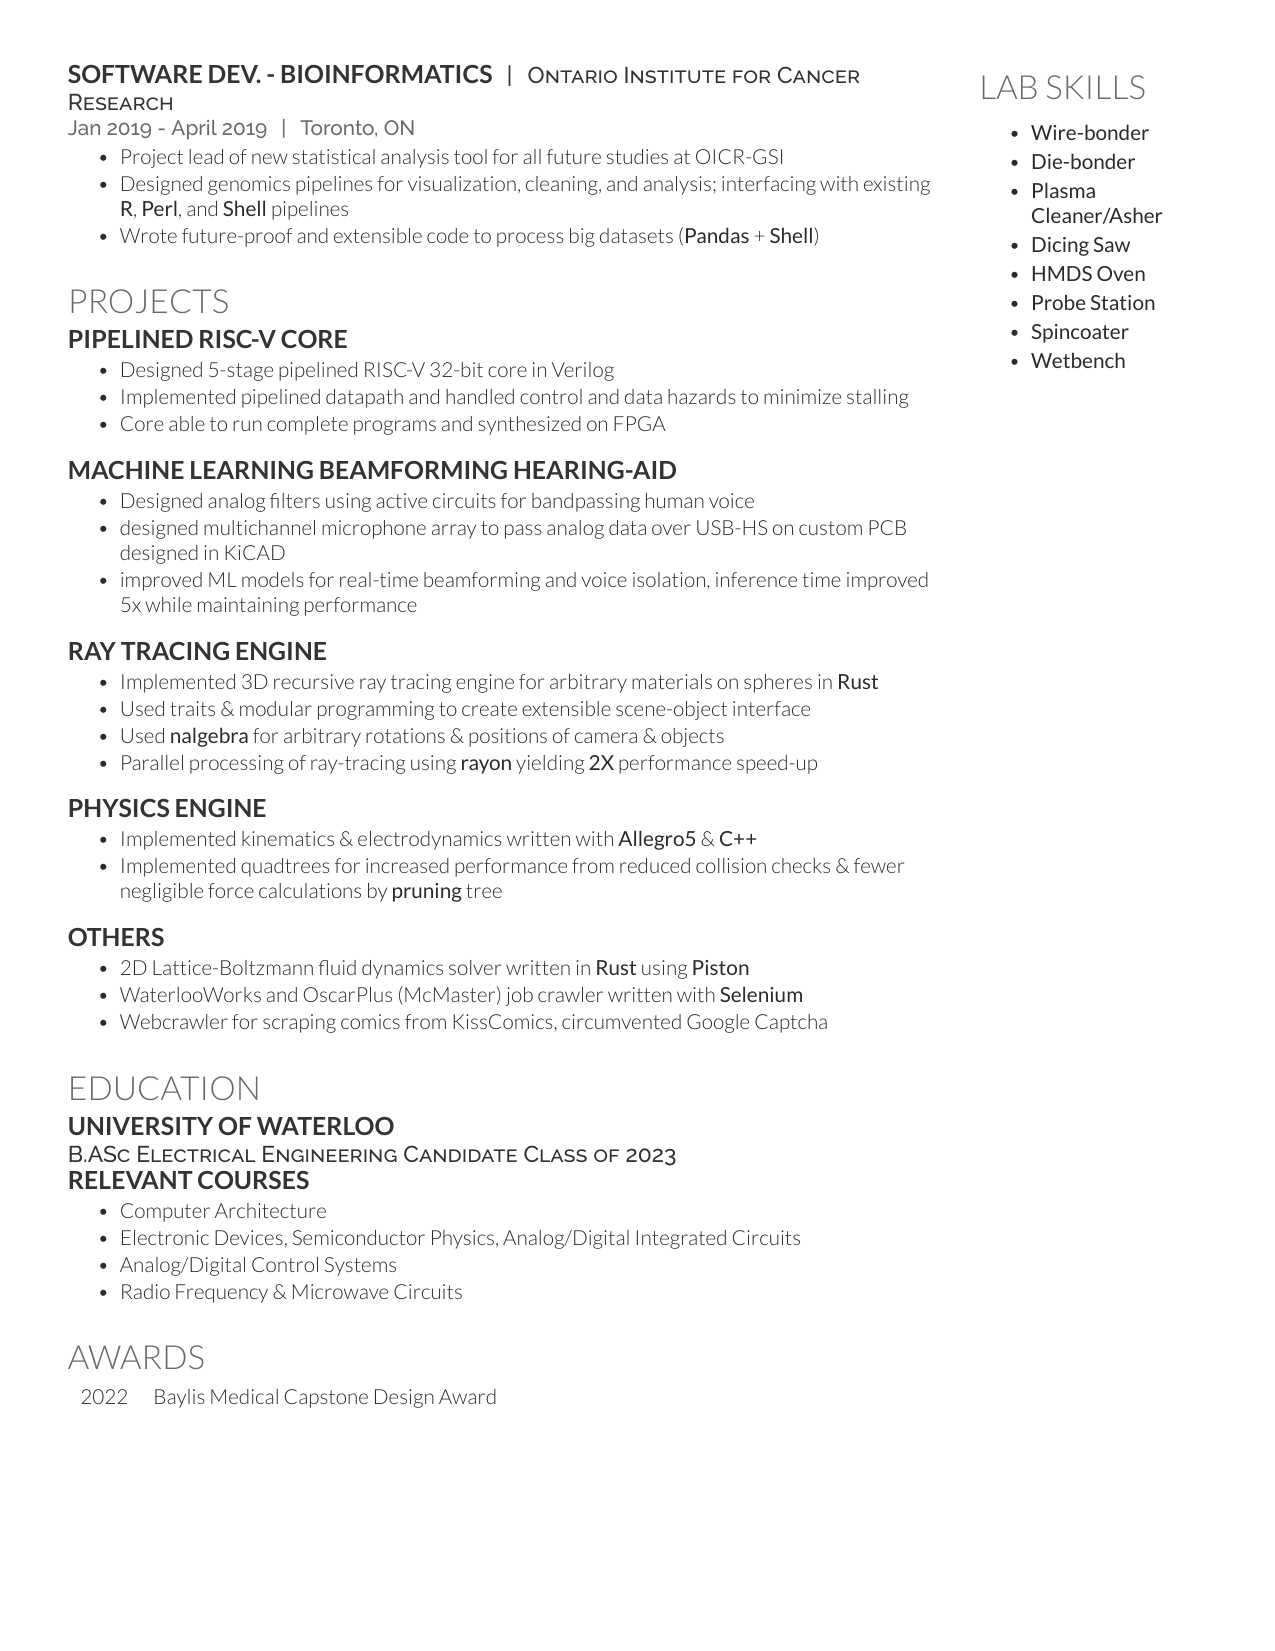
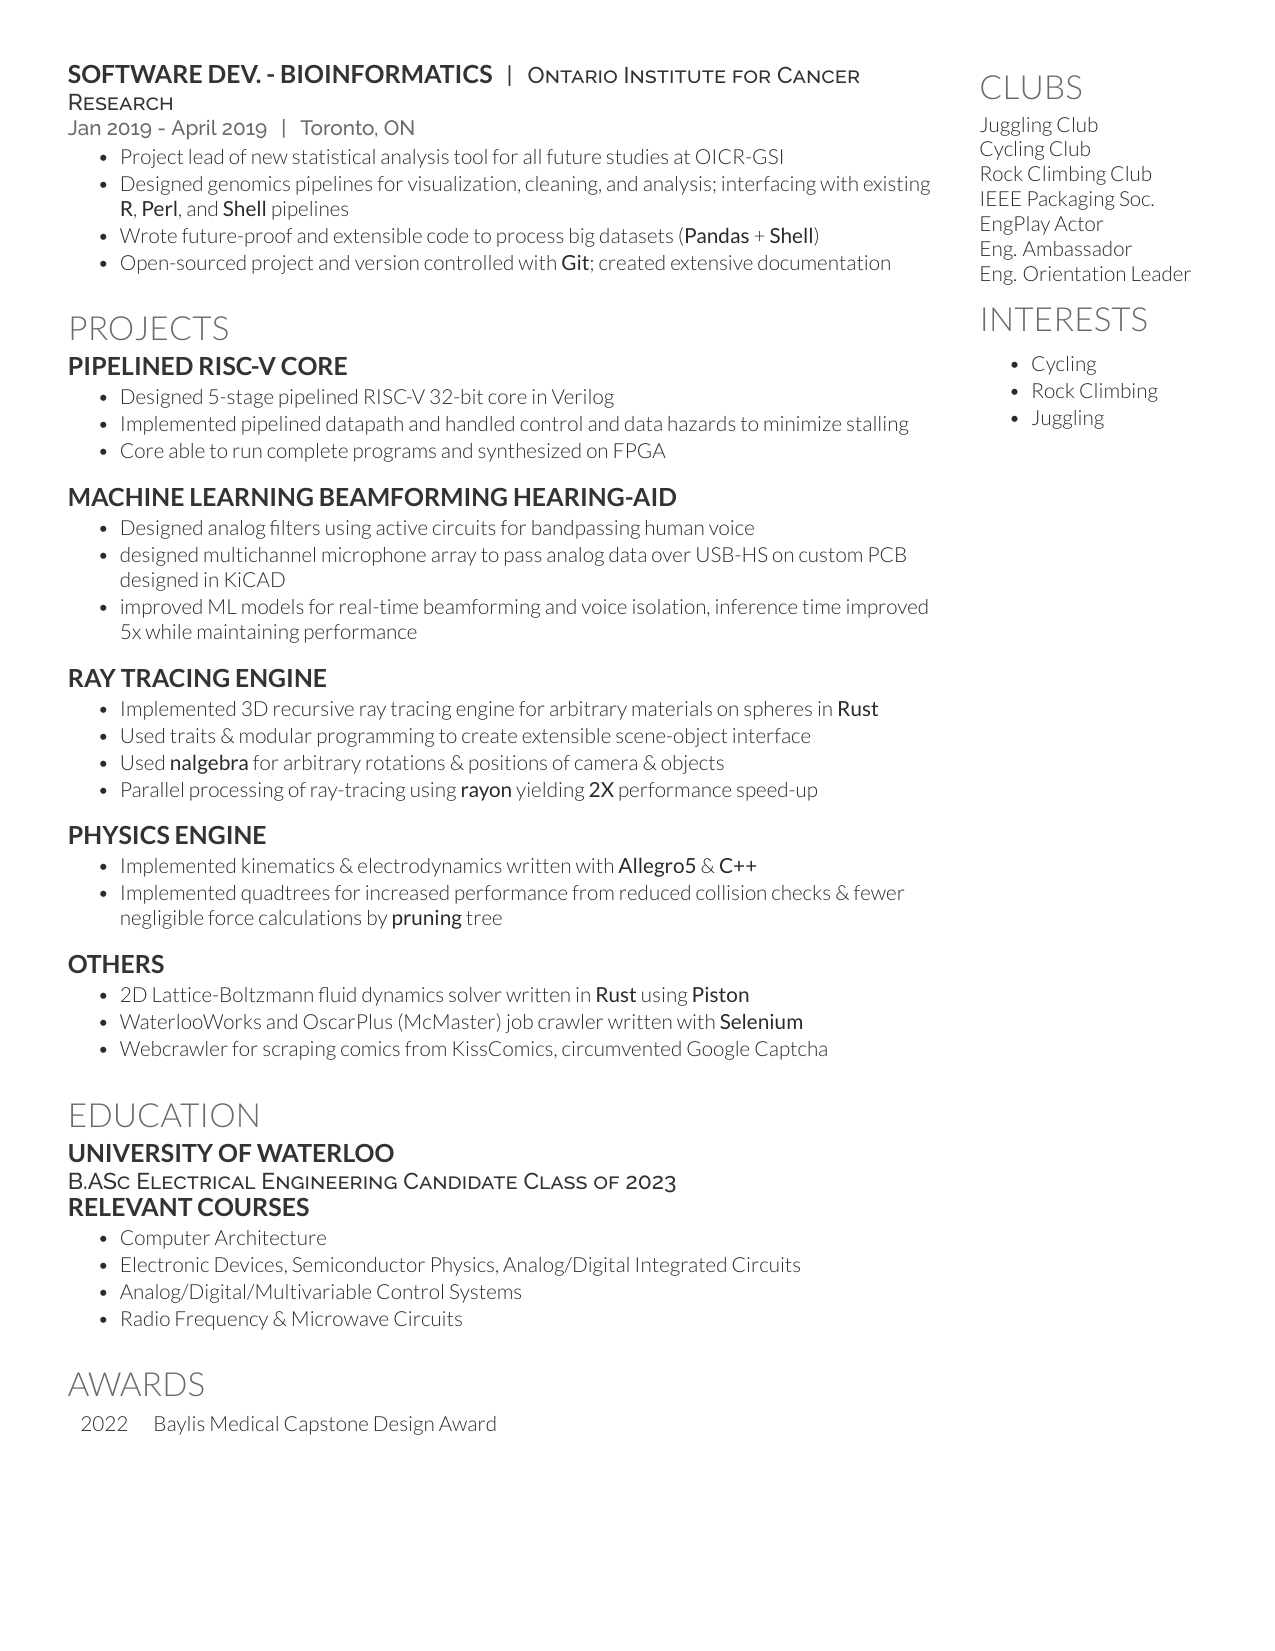
Reorganize format

Changed region(s): [[0.0306, 0.1545, 0.7341, 0.8649], [0.7647, 0.0309, 0.9176, 0.278], [0.4282, 0.1545, 0.4588, 0.1853]]

diff --git a/Resume/Resume-Clean/chandan.tex b/Resume/Resume-Clean/chandan.tex
@@ -21,7 +21,7 @@
 %     LAST UPDATED DATE
 %
 %%%%%%%%%%%%%%%%%%%%%%%%%%%%%%%%%%%%%%
-%\lastupdated
+% \lastupdated
 
 %%%%%%%%%%%%%%%%%%%%%%%%%%%%%%%%%%%%%%
 %
@@ -31,7 +31,7 @@
 \namesection{Kunal}{Chandan}
 {
 	\urlstyle{same}
-	\textit{Honours Electrical Engineering Candidate} \\
+	\textit{B.A.Sc Honours Electrical Engineering Candidate} \\
 	\href{mailto:kchandan@uwaterloo.ca}{kchandan@uwaterloo.ca} \quad
 	| \quad
 	\href{https://www.linkedin.com/in/kunal-chandan/}{linkedin/kunal-chandan} \quad
@@ -101,27 +101,22 @@
 	\end{itemize}
 
 %%%%%%%%%%%%%%%%%%%%%%%%%%%%%%%%%%%%%%
-%     Interests
+%     Lab Skills
 %%%%%%%%%%%%%%%%%%%%%%%%%%%%%%%%%%%%%%
-\section{Interests}
-\begin{itemize}
-	\setlength\itemsep{-0.3em}
-    \item Cycling
-	\item Rock Climbing
-	\item Juggling
-\end{itemize}
 
-%%%%%%%%%%%%%%%%%%%%%%%%%%%%%%%%%%%%%%
-%     CLUBS
-%%%%%%%%%%%%%%%%%%%%%%%%%%%%%%%%%%%%%%
-\section{Clubs}
-Juggling Club \\
-Cycling Club \\
-Rock Climbing Club \\
-IEEE Packaging Soc. \\
-EngPlay Actor \\
-Eng. Ambassador \\
-Eng. Orientation Leader
+\section{Lab Skills}
+	\begin{itemize}
+		\setlength\itemsep{-0.2em}
+		\item \textbf{Wire-bonder}
+		\item \textbf{Die-bonder}
+		\item \textbf{Plasma Cleaner/Asher}
+		\item \textbf{Dicing Saw}
+		\item \textbf{HMDS Oven}
+		\item \textbf{Probe Station}
+		\item \textbf{Spincoater}
+		\item \textbf{Wetbench}
+		\item \textbf{PCB Design}
+	\end{itemize}
 
 \sectionsep
 
@@ -236,7 +231,7 @@ Eng. Orientation Leader
 	\item Designed genomics pipelines for visualization, cleaning, and analysis; 
 	interfacing with existing \textbf{R}, \textbf{Perl}, and \textbf{Shell} pipelines
 	\item Wrote future-proof and extensible code to process big datasets (\textbf{Pandas} + \textbf{Shell})
-	% \item Open-sourced project  and version controlled with \textbf{Git}; created extensive documentation
+	\item Open-sourced project and version controlled with \textbf{Git}; created extensive documentation
 \end{tightemize}
 \sectionsep
 
@@ -329,7 +324,7 @@ Eng. Orientation Leader
 \begin{tightemize}
         \item Computer Architecture
 		\item Electronic Devices, Semiconductor Physics, Analog/Digital Integrated Circuits
-		\item Analog/Digital Control Systems
+		\item Analog/Digital/Multivariable Control Systems
 		\item Radio Frequency \& Microwave Circuits
 \end{tightemize}
 \sectionsep
@@ -350,21 +345,27 @@ Eng. Orientation Leader
 \begin{minipage}[t]{0.20\textwidth}
 
 %%%%%%%%%%%%%%%%%%%%%%%%%%%%%%%%%%%%%%
-%     Lab Skills
+%     CLUBS
 %%%%%%%%%%%%%%%%%%%%%%%%%%%%%%%%%%%%%%
+\section{Clubs}
+Juggling Club \\
+Cycling Club \\
+Rock Climbing Club \\
+IEEE Packaging Soc. \\
+EngPlay Actor \\
+Eng. Ambassador \\
+Eng. Orientation Leader
 
-\section{Lab Skills}
-	\begin{itemize}
-		\setlength\itemsep{-0.2em}
-		\item \textbf{Wire-bonder}
-		\item \textbf{Die-bonder}
-		\item \textbf{Plasma Cleaner/Asher}
-		\item \textbf{Dicing Saw}
-		\item \textbf{HMDS Oven}
-		\item \textbf{Probe Station}
-		\item \textbf{Spincoater}
-		\item \textbf{Wetbench}
-	\end{itemize}
+%%%%%%%%%%%%%%%%%%%%%%%%%%%%%%%%%%%%%%
+%     Interests
+%%%%%%%%%%%%%%%%%%%%%%%%%%%%%%%%%%%%%%
+\section{Interests}
+\begin{itemize}
+	\setlength\itemsep{-0.3em}
+    \item Cycling
+	\item Rock Climbing
+	\item Juggling
+\end{itemize}
 \end{minipage}
 
 %%%%%%%%%%%%%%%%%%%%%%%%%%%%%%%%%%%%%%
